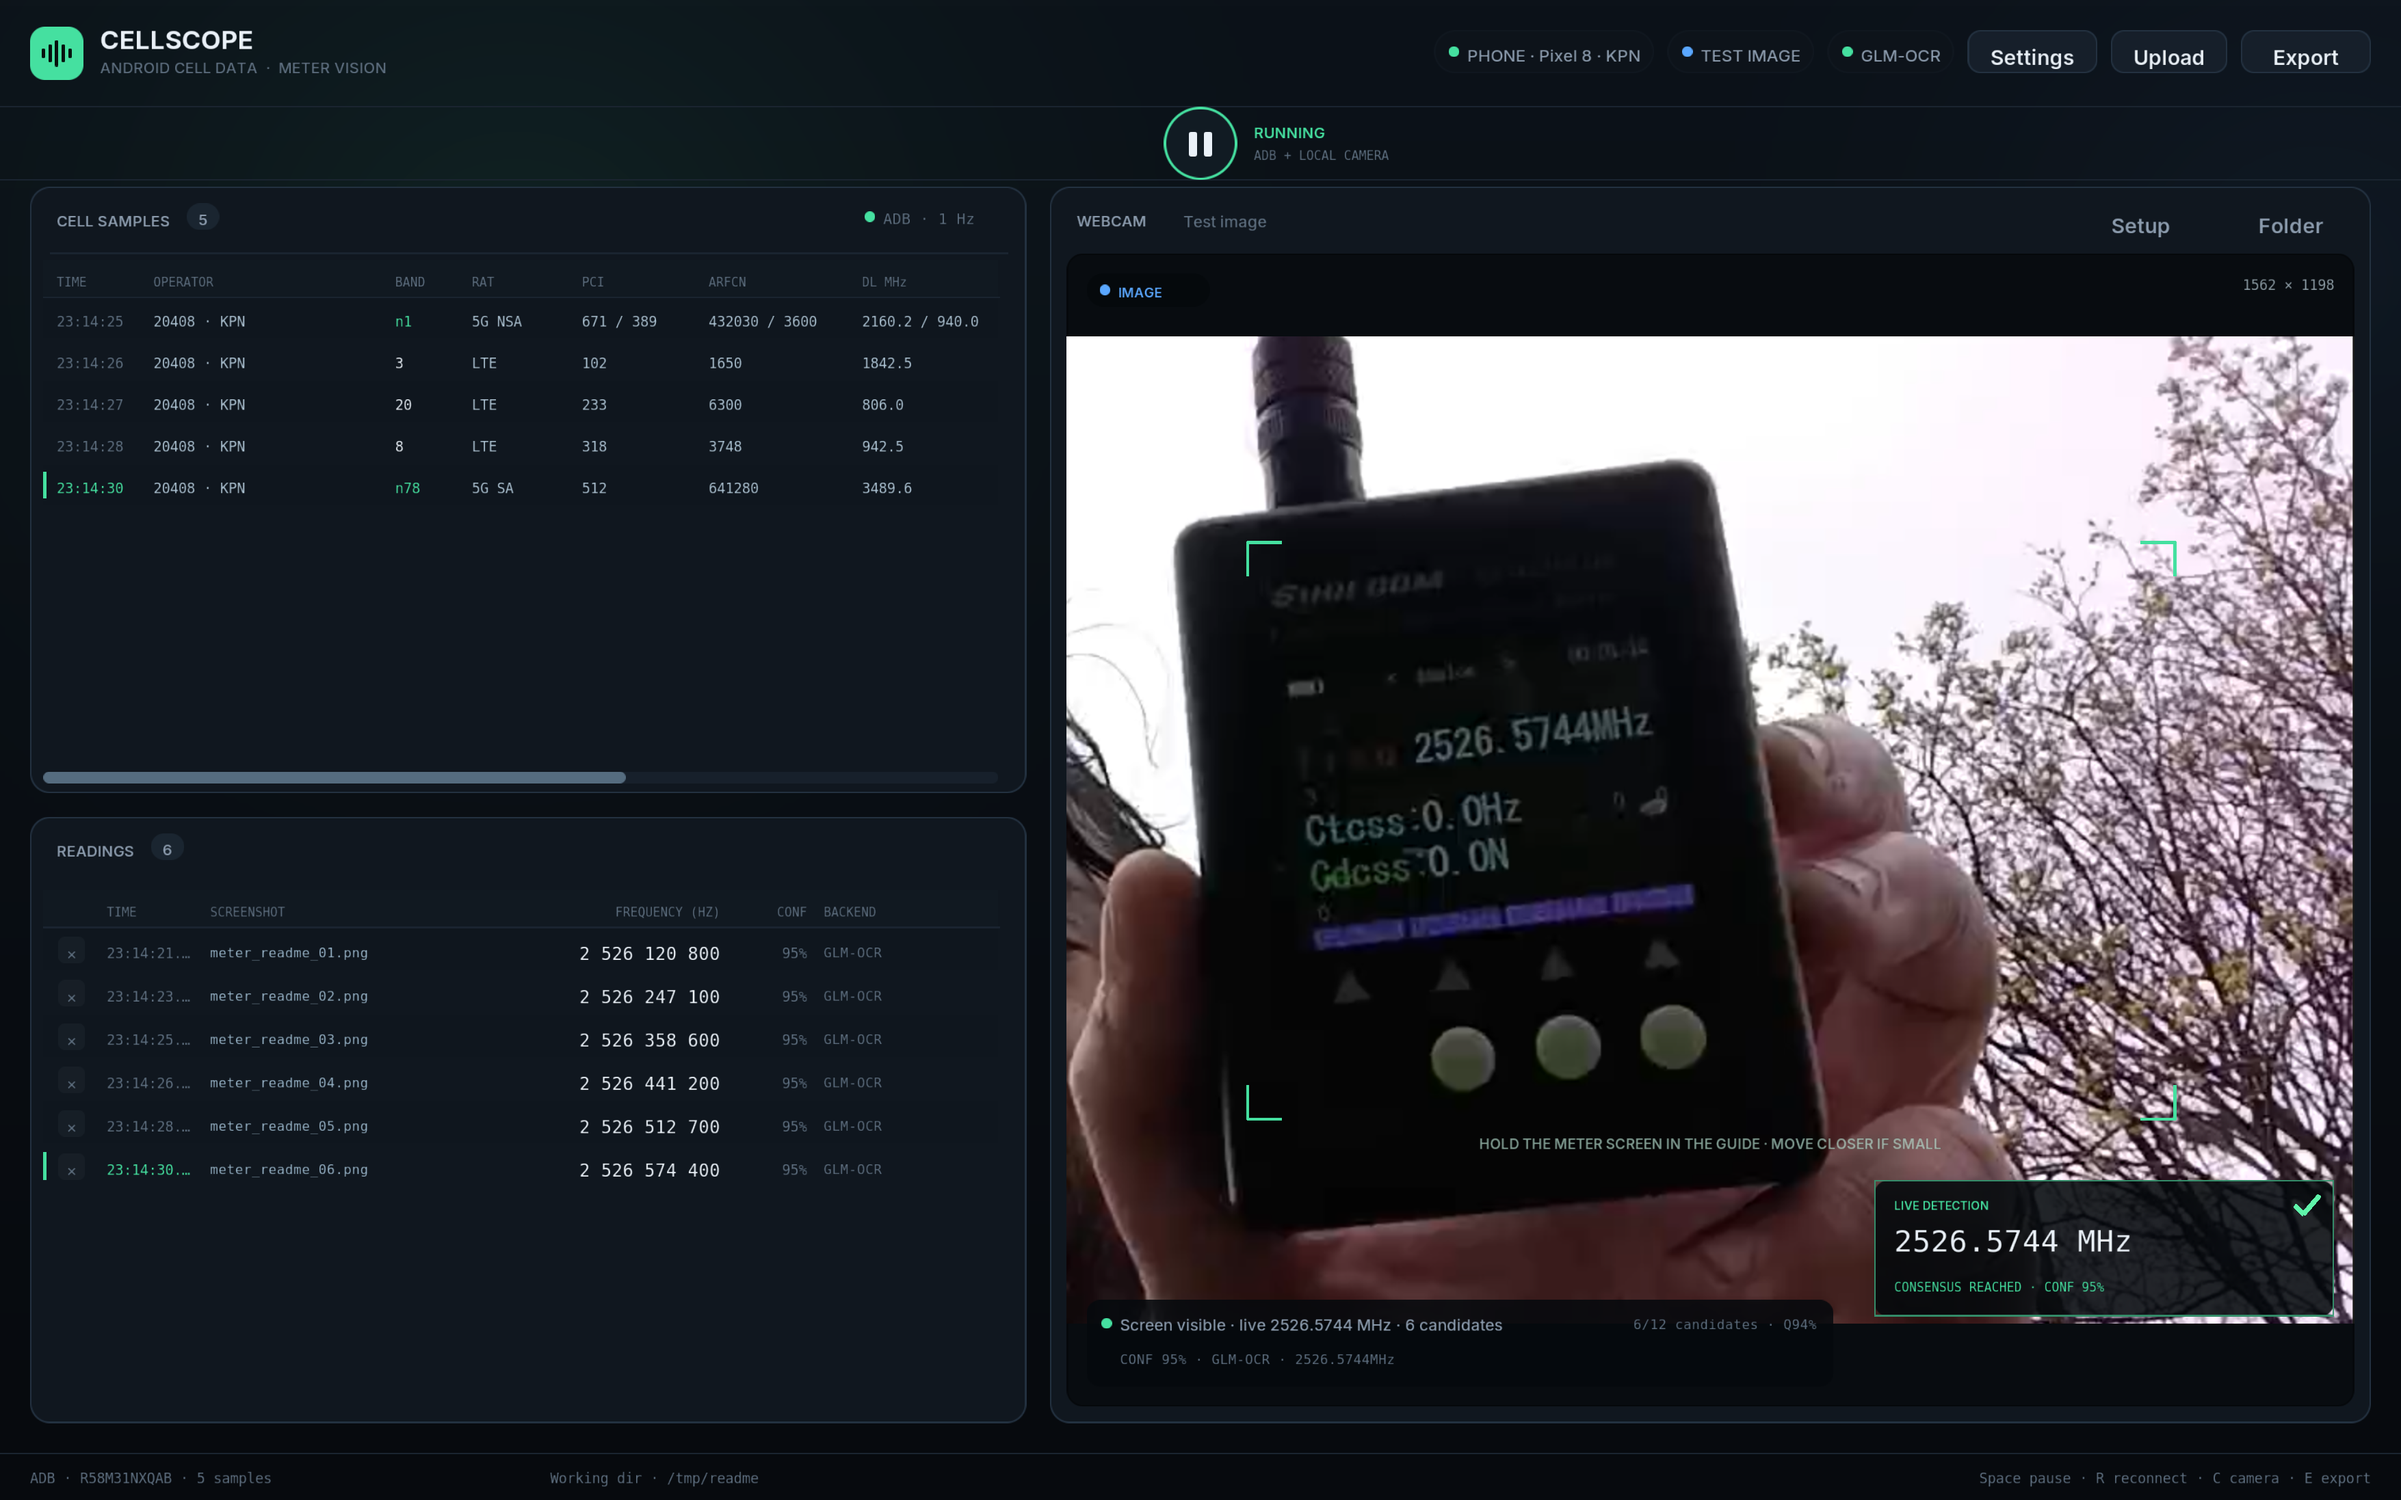
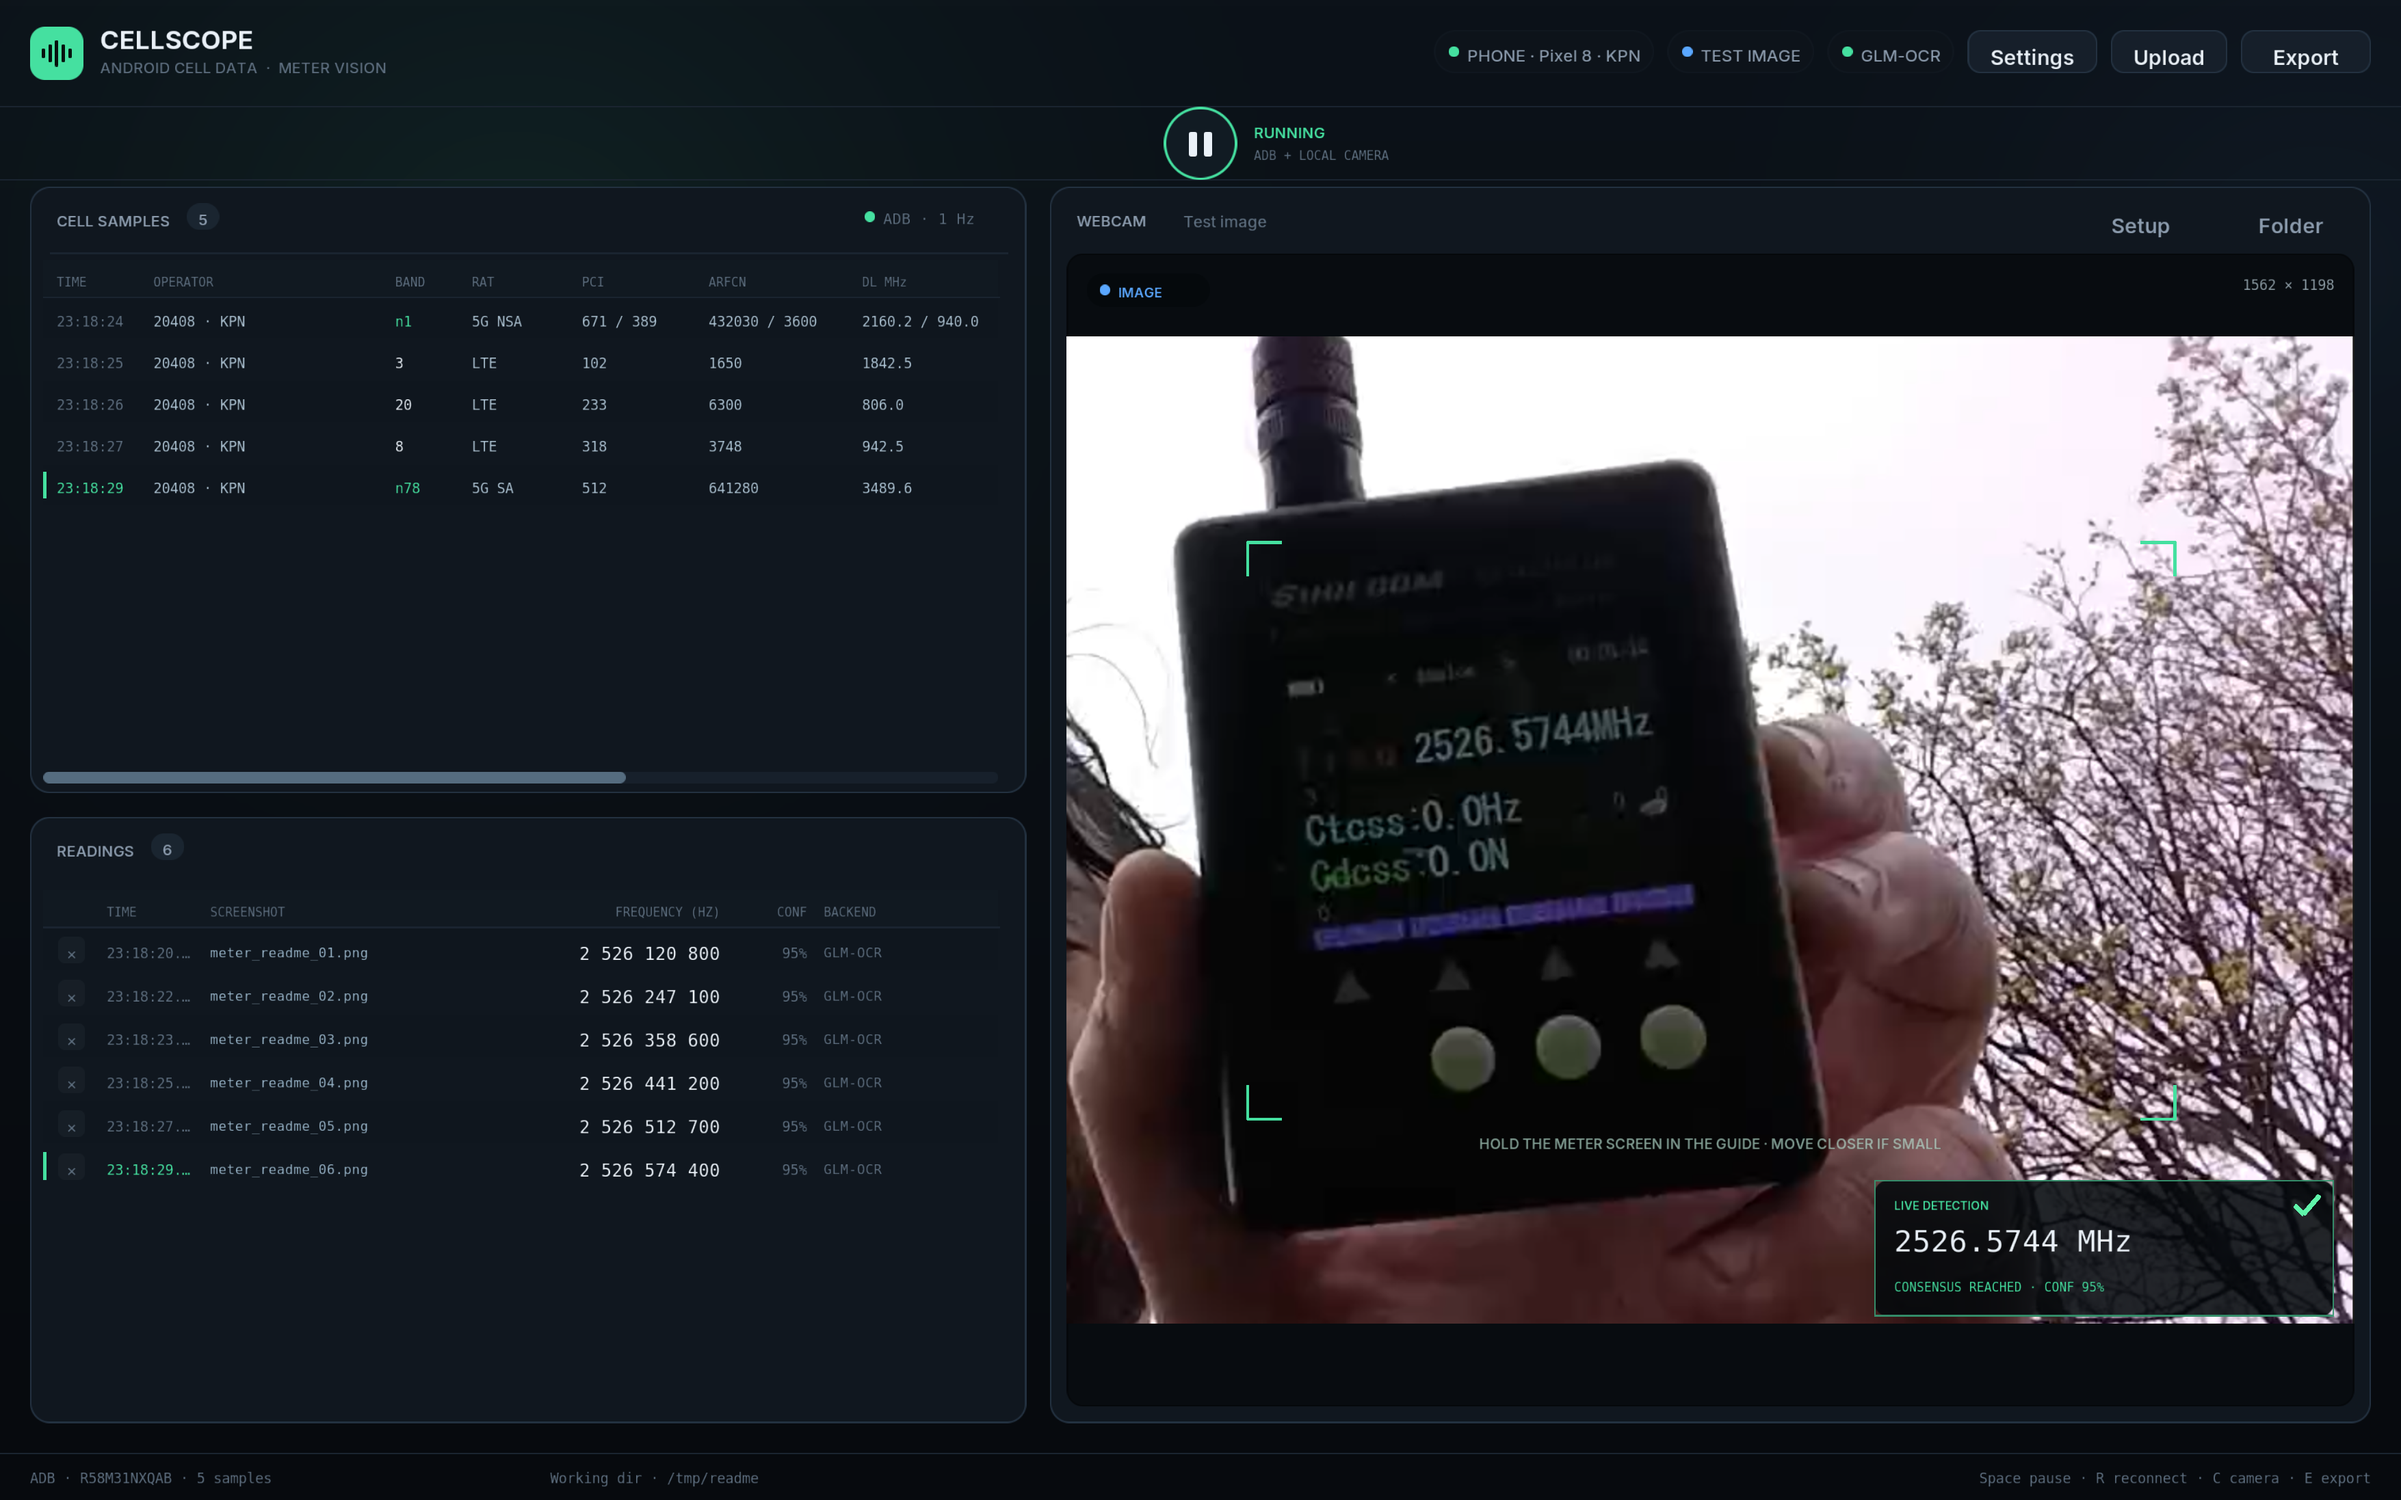
Remove redundant webcam status box
- delete the bottom-left status/confidence/backend/raw overlay
- keep LIVE DETECTION as the only reading status in the webcam pane
- regenerate the single README screenshot

Changed region(s): [[0.4658, 0.8678, 0.7764, 0.8988]]

diff --git a/src/app_ui.c b/src/app_ui.c
@@ -634,44 +634,7 @@ static void draw_camera_panel(App *app, UiState *s, UiRect r)
                          "screen visible · reading next frame");
         }
     }
-
-    /* Reader status, confidence, backend and raw answer live in the webcam
-     * pane now that the dedicated reader pane is gone. */
-    if (!app->demo) {
-        UiRect st = ui_rect(p.x + 12, p.y + p.h - 64,
-                            CS_MIN(p.w - 24, p.w * 0.58f), 52);
-        ui_round_rect(ui, st, 8, UI_COLOR(5, 9, 13, 222));
-        UiColor sc = s->reader.error[0] ? UI_RED
-                     : (s->reader.screen_visible || s->reader.visible) ? UI_ACCENT
-                                                                       : UI_MUTED;
-        draw_dot(ui, st.x + 12, st.y + 14, sc);
-        char status[180];
-        cs_strlcpy(status, s->reader.status[0] ? s->reader.status : "Watching for a display…",
-                   sizeof(status));
-        ui_text_ellipsis(ui, FONT_MEDIUM, st.x + 20, st.y + 7, 9.4f, UI_MUTED,
-                         st.w - 128, status);
-        char burst[64];
-        if (s->reader.burst_count > 0)
-            snprintf(burst, sizeof(burst), "%d/12 candidates · Q%d%%", s->reader.burst_count,
-                     (int)(s->reader.best_score * 100.0f));
-        else
-            cs_strlcpy(burst, "no candidates", sizeof(burst));
-        ui_text_right(ui, FONT_MONO, st.x + st.w - 10, st.y + 8, 8.0f, UI_FAINT, burst);
-
-        const char *detail = s->reader.error[0] ? s->reader.error
-                            : s->reader.raw[0] ? s->reader.raw
-                            : s->reader.detail[0] ? s->reader.detail
-                                                  : "";
-        char meta[300];
-        snprintf(meta, sizeof(meta), "CONF %d%% · %s%s%s",
-                 (int)(CS_MAX(0.0, CS_MIN(1.0, s->reader.confidence)) * 100.0),
-                 s->reader.backend[0] ? s->reader.backend : "reader off",
-                 detail[0] ? " · " : "", detail);
-        ui_text_ellipsis(ui, FONT_MONO, st.x + 20, st.y + 29, 7.8f,
-                         s->reader.error[0] ? UI_RED : UI_FAINT, st.w - 30, meta);
-    }
 }
-
 
 typedef struct {
     const char *label;
